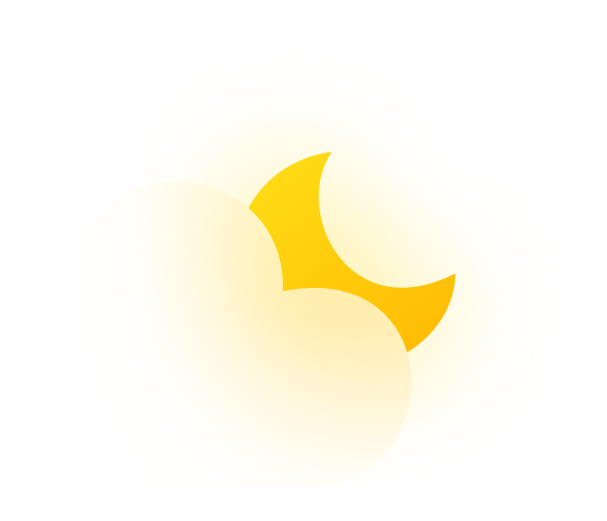
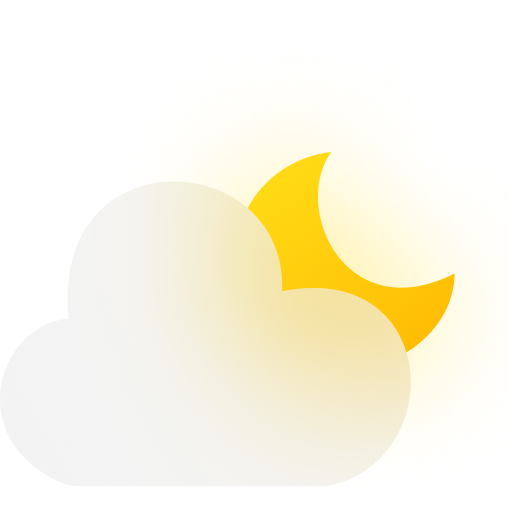
feat: adding basic structure of user home screen (#20)

Changed region(s): [[0.4126, 0.2764, 0.9136, 0.8906]]

diff --git a/src/routes/app/user/UserHome.tsx b/src/routes/app/user/UserHome.tsx
@@ -1,12 +1,53 @@
+import { getWeatherIcon } from "../../../hooks/getWeatherIcon";
 import { useWeather } from "../../../hooks/useWeather";
+import Clear from "../../../assets/images/sunny.png";
+import Cloudy from "../../../assets/images/cloudy.png";
+import CloudyDay from "../../../assets/images/day_cloudy.png";
+import CloudyNight from "../../../assets/images/night_cloudy.png";
+import Rain from "../../../assets/images/rainy.png";
+import Thunder from "../../../assets/images/thunderstorm.png";
+import Snow from "../../../assets/images/snowy.png";
+import Mist from "../../../assets/images/windy.png";
+import Default from "../../../assets/images/sunny.png";
+import { WeatherIcon } from "../../../hooks/getWeatherIcon";
+import Icon from "../../../components/Icon/Icon";
+import {
+  container,
+  header,
+  weatherIcon,
+  temperature,
+  userLocation,
+  weatherDetails,
+  wind,
+  separator,
+  humidity,
+  alertContainer,
+  alertHeader,
+  alertTitle,
+  alertIcon,
+  alertValidation,
+} from "./UserHome.css";
+
+const weatherIcons: WeatherIcon = {
+  clear: Clear,
+  cloudy: Cloudy,
+  cloudyDay: CloudyDay,
+  cloudyNight: CloudyNight,
+  rain: Rain,
+  thunder: Thunder,
+  snow: Snow,
+  mist: Mist,
+  default: Default,
+};
 
 export const UserHome = () => {
   const { weather, loading } = useWeather();
+  const userName = "GetFromFirebase";
 
   if (loading) return <p>Carregando clima...</p>;
   if (!weather) return <p>Não foi possível obter os dados.</p>;
 
-  //mock de alerta
+  // mock de alerta
   // weather.alerts = {
   //   alert: [
   //     {
@@ -20,32 +61,55 @@ export const UserHome = () => {
   // };
 
   return (
-    <div style={{ padding: "1rem", fontFamily: "sans-serif" }}>
-      <h2>
-        {weather.temp_c}°C – {weather.location.name}, {weather.location.region}
-      </h2>
-      <p>🌬 Vento: {weather.wind_kph} km/h</p>
-      <p>💧 Umidade: {weather.humidity}%</p>
+    <div className={container}>
+      <header className={header}>
+        <h3>Olá, {userName}</h3>
+        <p>Tudo certo por aí?</p>
+        <nav>
+          <Icon type="settings" />
+          {/* profile image */}
+        </nav>
+      </header>
+
       <img
-        src={`https:${weather.condition.icon}`}
+        src={getWeatherIcon(
+          weather.condition.text,
+          weather.iconCode,
+          weatherIcons
+        )}
         alt={weather.condition.text}
+        className={weatherIcon}
       />
+      <h2 className={temperature}>{weather.temp_c}°C</h2>
+      <p className={userLocation}>
+        {weather.location.name} - {weather.location.region}
+      </p>
+
+      <div className={weatherDetails}>
+        <div className={wind}>
+          <h4>Vento</h4>
+          <p>{weather.wind_kph} km/h</p>
+        </div>
+
+        <div className={separator}></div>
+
+        <div className={humidity}>
+          <h4>Umidade</h4>
+          <p>{weather.humidity}%</p>
+        </div>
+      </div>
 
       {weather.alerts?.alert?.length > 0 && (
-        <div
-          style={{
-            marginTop: "1rem",
-            padding: "1rem",
-            border: "1px solid purple",
-            borderRadius: "8px",
-          }}
-        >
-          <strong>⚠ {weather.alerts.alert[0].event}</strong>
+        <div className={alertContainer}>
+          <div className={alertHeader}>
+            <Icon type="alert" className={alertIcon} />
+            <h3 className={alertTitle}>{weather.alerts.alert[0].event}</h3>
+          </div>
           <p>{weather.alerts.alert[0].desc}</p>
-          <small>
+          <p className={alertValidation}>
             Válido até:{" "}
             {new Date(weather.alerts.alert[0].expires).toLocaleString()}
-          </small>
+          </p>
         </div>
       )}
     </div>

diff --git a/src/hooks/getWeatherIcon.ts b/src/hooks/getWeatherIcon.ts
@@ -1,0 +1,48 @@
+export type WeatherIcon = {
+  clear: string;
+  cloudy: string;
+  cloudyDay: string;
+  cloudyNight: string;
+  rain: string;
+  thunder: string;
+  snow: string;
+  mist: string;
+  default: string;
+};
+
+export function getWeatherIcon(
+  description: string,
+  iconCode: string,
+  icon: WeatherIcon
+) {
+  const desc = description.toLowerCase();
+  const isDay = iconCode.includes("d");
+
+  if (desc.includes("clear")) return icon.clear;
+
+  if (desc.includes("few clouds") || desc.includes("scattered clouds")) {
+    return isDay ? icon.cloudyDay : icon.cloudyNight;
+  }
+
+  if (desc.includes("broken clouds") || desc.includes("overcast clouds")) {
+    return icon.cloudy;
+  }
+
+  if (desc.includes("rain") || desc.includes("drizzle")) {
+    return icon.rain;
+  }
+
+  if (desc.includes("thunder")) {
+    return icon.thunder;
+  }
+
+  if (desc.includes("snow")) {
+    return icon.snow;
+  }
+
+  if (desc.includes("mist") || desc.includes("fog") || desc.includes("haze")) {
+    return icon.mist;
+  }
+
+  return icon.default;
+}

diff --git a/src/components/Icon/Icon.tsx b/src/components/Icon/Icon.tsx
@@ -11,10 +11,13 @@ import Logo from "../../assets/icons/logo.svg?react";
 import User from "../../assets/icons/user.svg?react";
 import Institution from "../../assets/icons/institution.svg?react";
 import Check from "../../assets/icons/check.svg?react";
+import Alert from "../../assets/icons/alert.svg?react";
 
 export type IconType =
+  | "alert"
   | "arrowLeftSimple"
   | "arrowLeft"
+  | "check"
   | "document"
   | "eyeOpen"
   | "eyeClosed"
@@ -24,8 +27,7 @@ export type IconType =
   | "settings"
   | "logo"
   | "user"
-  | "institution"
-  | "check";
+  | "institution";
 
 type IconProps = {
   type: IconType;
@@ -38,8 +40,10 @@ const icons: Record<
   IconType,
   React.FunctionComponent<React.SVGProps<SVGSVGElement>>
 > = {
+  alert: Alert,
   arrowLeftSimple: ArrowLeftSimple,
   arrowLeft: ArrowLeft,
+  check: Check,
   document: Document,
   eyeOpen: EyeOpen,
   eyeClosed: EyeClosed,
@@ -50,7 +54,6 @@ const icons: Record<
   logo: Logo,
   user: User,
   institution: Institution,
-  check: Check,
 };
 
 const Icon: React.FC<IconProps> = ({

diff --git a/src/hooks/useWeather.ts b/src/hooks/useWeather.ts
@@ -4,6 +4,7 @@ type WeatherData = {
   temp_c: number;
   humidity: number;
   wind_kph: number;
+  iconCode: string;
   condition: { icon: string; text: string };
   location: { name: string; region: string };
   alerts: {
@@ -43,8 +44,10 @@ export function useWeather() {
         temp_c: Math.round(weatherData.main.temp),
         humidity: Math.round(weatherData.main.humidity),
         wind_kph: Math.round(weatherData.wind.speed * 3.6),
+        iconCode: weatherData.weather[0].icon,
         condition: {
-          icon: `http://openweathermap.org/img/wn/${weatherData.weather[0].icon}@2x.png`,
+          icon: "",
+
           text: weatherData.weather[0].description,
         },
         location: {

diff --git a/src/routes/app/user/UserHome.css.ts b/src/routes/app/user/UserHome.css.ts
@@ -1,3 +1,29 @@
 import { style } from "@vanilla-extract/css";
 
 export const container = style({});
+
+export const header = style({});
+
+export const weatherIcon = style({});
+
+export const temperature = style({});
+
+export const userLocation = style({});
+
+export const weatherDetails = style({});
+
+export const wind = style({});
+
+export const separator = style({});
+
+export const humidity = style({});
+
+export const alertContainer = style({});
+
+export const alertHeader = style({});
+
+export const alertTitle = style({});
+
+export const alertIcon = style({});
+
+export const alertValidation = style({});
